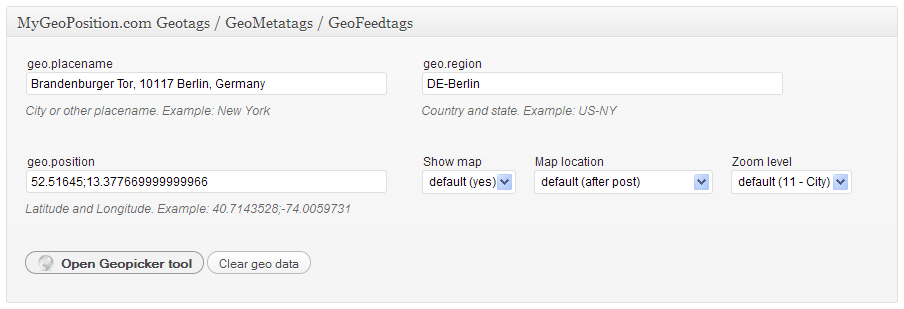
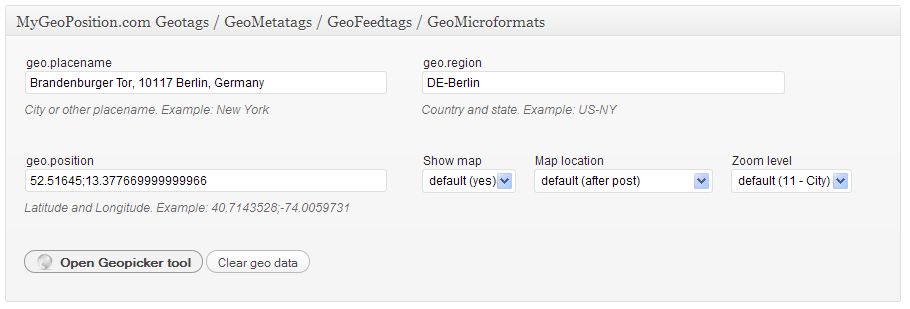
Added Geo-Microformats.
git-svn-id: https://plugins.svn.wordpress.org/mygeopositioncom-geotags-geometatags/trunk@462164 b8457f37-d9ea-0310-8a92-e5e31aec5664

diff --git a/mygeopositioncom-geotags-geometatags.php b/mygeopositioncom-geotags-geometatags.php
@@ -1,9 +1,9 @@
 <?php
 /**
- * Plugin Name: MyGeoPosition.com Geotags / GeoMetatags / GeoFeedtags / Maps
+ * Plugin Name: MyGeoPosition.com Geotags / GeoMetatags / GeoFeedtags / GeoMicroformats / Maps
  * Plugin URI: http://www.mygeoposition.com
- * Description: Create geo-posttags, geo-metatags, geo-feedtags and maps for posts and pages. Display the geotagged location in form of a map before, after or within the post. An easy-to-use geopicker map with auto-locating functionality helps entering locations.
- * Version: 1.2
+ * Description: Create geo-posttags, geo-metatags, geo-feedtags, geo-microformats and maps for posts and pages. Display the geotagged location in form of a map before, after or within the post. An easy-to-use geopicker map with auto-locating functionality helps entering locations.
+ * Version: 1.3
  * Author: Daniel Filzhut
  * Author URI: http://www.filzhut.de
  */
@@ -131,8 +131,8 @@ function mygpGeotagsGeoMetatags_createMetaBox() {
     global $mygpGeotagsGeoMetatags_key;
  
     if (function_exists('add_meta_box')) {
-        add_meta_box('new-meta-boxes', __('MyGeoPosition.com Geotags / GeoMetatags / GeoFeedtags', $mygpGeotagsGeoMetatags_key), 'mygpGeotagsGeoMetatags_displayMetaBox', 'post', 'normal', 'high');
-        add_meta_box('new-meta-boxes', __('MyGeoPosition.com Geotags / GeoMetatags / GeoFeedtags', $mygpGeotagsGeoMetatags_key), 'mygpGeotagsGeoMetatags_displayMetaBox', 'page', 'normal', 'high');
+        add_meta_box('new-meta-boxes', __('MyGeoPosition.com Geotags / GeoMetatags / GeoFeedtags / GeoMicroformats', $mygpGeotagsGeoMetatags_key), 'mygpGeotagsGeoMetatags_displayMetaBox', 'post', 'normal', 'high');
+        add_meta_box('new-meta-boxes', __('MyGeoPosition.com Geotags / GeoMetatags / GeoFeedtags / GeoMicroformats', $mygpGeotagsGeoMetatags_key), 'mygpGeotagsGeoMetatags_displayMetaBox', 'page', 'normal', 'high');
     }
     
 }
@@ -449,6 +449,7 @@ function mygpGeotagsGeoMetatags_addGeoFeedtags(){
 		if ($lat != "" && $lon != "") {
 			echo "\t<geo:lat>$lat</geo:lat>\n\t\t<geo:long>$lon</geo:long>\n";
 			echo "\t\t<georss:where>\n\t\t\t<gml:Point>\n\t\t\t\t<gml:pos>$lat $lon</gml:pos>\n\t\t\t</gml:Point>\n\t\t</georss:where>\n";
+			echo "\t\t<georss:point>$lat $lon</georss:point>\n";
 			echo "\t\t<geourl:latitude>$lat</geourl:latitude>\n\t\t<geourl:longitude>$lon</geourl:longitude>\n";
 			echo "\t\t<icbm:latitude>$lat</icbm:latitude>\n\t\t<icbm:longitude>$lon</icbm:longitude>\n";
 		}
@@ -546,6 +547,50 @@ add_filter('the_content', 'mygpGeotagsGeoMetatags_addMap');
 
 
 /**
+ * Add microformats to post
+ *
+ */
+function mygpGeotagsGeoMetatags_addMicroformats($content) {
+
+	global $wp_query, $mygpGeotagsGeoMetatags_key;
+	
+	$postId = $wp_query->post->ID;
+	$data = get_post_meta($postId, $mygpGeotagsGeoMetatags_key, true);
+	
+	$dataSplitted = "";            
+	if ($data[ 'position' ] != "") {
+		$dataSplitted = explode(";", $data[ 'position' ]);
+	} else {
+		return $content;		
+	}
+	
+	if (mygpGeotagsGeoMetatags_getOption("addMicroformats") == 'false') {
+		return $content;
+	}
+
+	// http://microformats.org/wiki/geo
+	// http://www.google.com/support/webmasters/bin/answer.py?hl=en&answer=146861
+	// TODO: http://schema.org/GeoCoordinates 
+	// TODO: http://www.data-vocabulary.org/Geo/ 
+	$content = $content . '
+<div id="geo-post-' . $postId . '" class="geo geo-post" style="display:none">
+   <span class="latitude" title="' . $dataSplitted[0] . '">
+      ' . $dataSplitted[0] . '
+      <span class="value-title" title="' . ($dataSplitted[0]) . '"></span>
+   </span>
+   <span class="longitude" title="' . $dataSplitted[1] . '">
+      ' . $dataSplitted[1] . '
+      <span class="value-title" title="' . ($dataSplitted[1]) . '"></span>
+   </span>
+</div>';
+		
+    return $content;
+}
+add_filter('the_content', 'mygpGeotagsGeoMetatags_addMicroformats');
+
+
+
+/**
  * Return plugin options.
  *
  */
@@ -595,6 +640,9 @@ function mygpGeotagsGeoMetatags_getOption($option, $postId = '') {
     		  return 'true';
     		  break;
     		case 'addFeedtags';
+    		  return 'true';
+    		  break;
+    		case 'addMicroformats';
     		  return 'true';
     		  break;
     		case 'addMap';

diff --git a/settings.php b/settings.php
@@ -77,6 +77,11 @@ class mygpGeotagsGeoMetatags_settings_config {
 	              'label' => "Add geo-feed-tags",
 	              'description' => "Add the configured location of a post to the RSS/Atom/RDF news feed (in Geo, GeoRSS/KML, GeoURL and ICBM format)",
 	              'dropdown' => "dd_onoff",
+	              'default_value' => "true"),
+	            'addMicroformats' => array (
+	              'label' => "Add geo-microformats",
+	              'description' => "Add the configured location of a post to the HTML source code (in http://microformats.org/wiki/geo format)", 
+	              'dropdown' => "dd_onoff",
 	              'default_value' => "true")
 	              )
 	          ),
